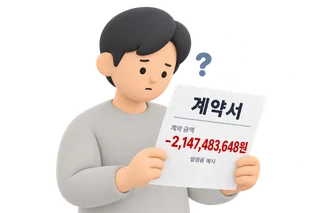
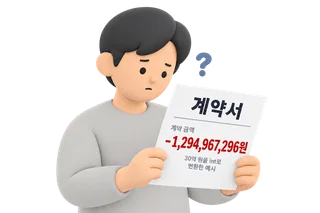
Align cover and code with requested illustrative 3 billion won int conversion

Changed region(s): [[0.5312, 0.6197, 0.7812, 0.8169]]

diff --git a/src/content/posts/integer-overflow-negative-amount.md b/src/content/posts/integer-overflow-negative-amount.md
@@ -2,7 +2,7 @@
 title: '금액이 마이너스로 찍혔다: VO의 int를 무엇으로 바꿀 것인가'
 description: '레거시 연동 전환을 검증하다 금액이 음수로 표기되는 현상을 만났다. DB 값과 VO 값을 대조하고 int 필드를 long으로 넓혀 해결했다. 정수 금액에 long을 선택한 이유와 금액 타입의 선택 기준을 정리한다.'
 date: 2026-08-12
-updated: 2026-09-30
+updated: 2026-10-01
 happened: '2025년 7월 – 10월'
 cause: 'DB 금액은 정상이었지만, 이를 받는 VO의 금액 필드가 int여서 금액이 큰 건에서만 음수가 담겼다. 금액 필드를 long으로 변경한 뒤 정상값이 표시되는 것을 확인했다.'
 category: 'legacy'
@@ -30,14 +30,17 @@ Integer.MAX_VALUE =  2,147,483,647
 
 약 21억이다. 원 단위 금액에서 21억은 큰 수가 아니다. 계약 금액이나 누적 합계라면 어렵지 않게 넘는다.
 
-Java의 일반적인 `int` 덧셈·뺄셈·곱셈은 오버플로를 별도 예외로 알리지 않는다. 결과의 하위 32비트만 남으며, 결과가 반드시 음수가 되는 것은 아니다.
+예를 들어 계약 금액이 30억 원이라고 가정해 보자. 이 값을 `long`에 담은 뒤 `int`로 강제 변환하면 다음과 같다.
 
 ```java
-int max = Integer.MAX_VALUE;   //  2147483647
-System.out.println(max + 1);   // -2147483648
+long amount = 3_000_000_000L;  // 정상 금액: 30억 원
+int wrong = (int) amount;
+System.out.println(wrong);     // -1294967296
 ```
 
-이게 오버플로다. 최상위 비트가 부호 비트인 2의 보수 표현에서, 최댓값에 1을 더하면 최솟값으로 넘어간다. 이 예제에서는 양수가 음수가 되지만, 오버플로 일반을 단순한 부호 반전으로 설명할 수는 없다. JDBC에서 값을 읽는 변환 동작도 이 산술 예제와 별도로 확인해야 한다.
+`long`에서 `int`로 좁히는 변환은 하위 32비트만 남긴다. 3,000,000,000은 `int`의 양수 범위를 넘고, 남은 비트를 부호 있는 정수로 해석하면 -1,294,967,296이 된다. 이 변환은 예외를 던지지 않지만, 범위를 넘은 모든 값이 음수가 되는 것은 아니다.
+
+> 표지와 코드의 30억 원은 원리를 설명하기 위한 가상 금액이며, 실제 당시 계약 금액이 아니다. 이 코드는 Java의 명시적 형 변환 예제다. 실제 DB→VO 경로에서 같은 변환이 일어났다는 재현 결과는 아니며, JDBC에서 값을 읽는 변환 동작은 별도로 확인해야 한다.
 
 일반 정수 산술은 오버플로 자체를 예외로 알리지 않는다. 별도로 범위를 검사하지 않으면 틀린 값이 조용히 흘러갈 수 있다. 이번에는 금액이 음수라 눈에 띄었지만, 표현 범위를 넘은 결과가 양수로 남았다면 부호만 보는 검증으로는 찾지 못했을 것이다.
 
